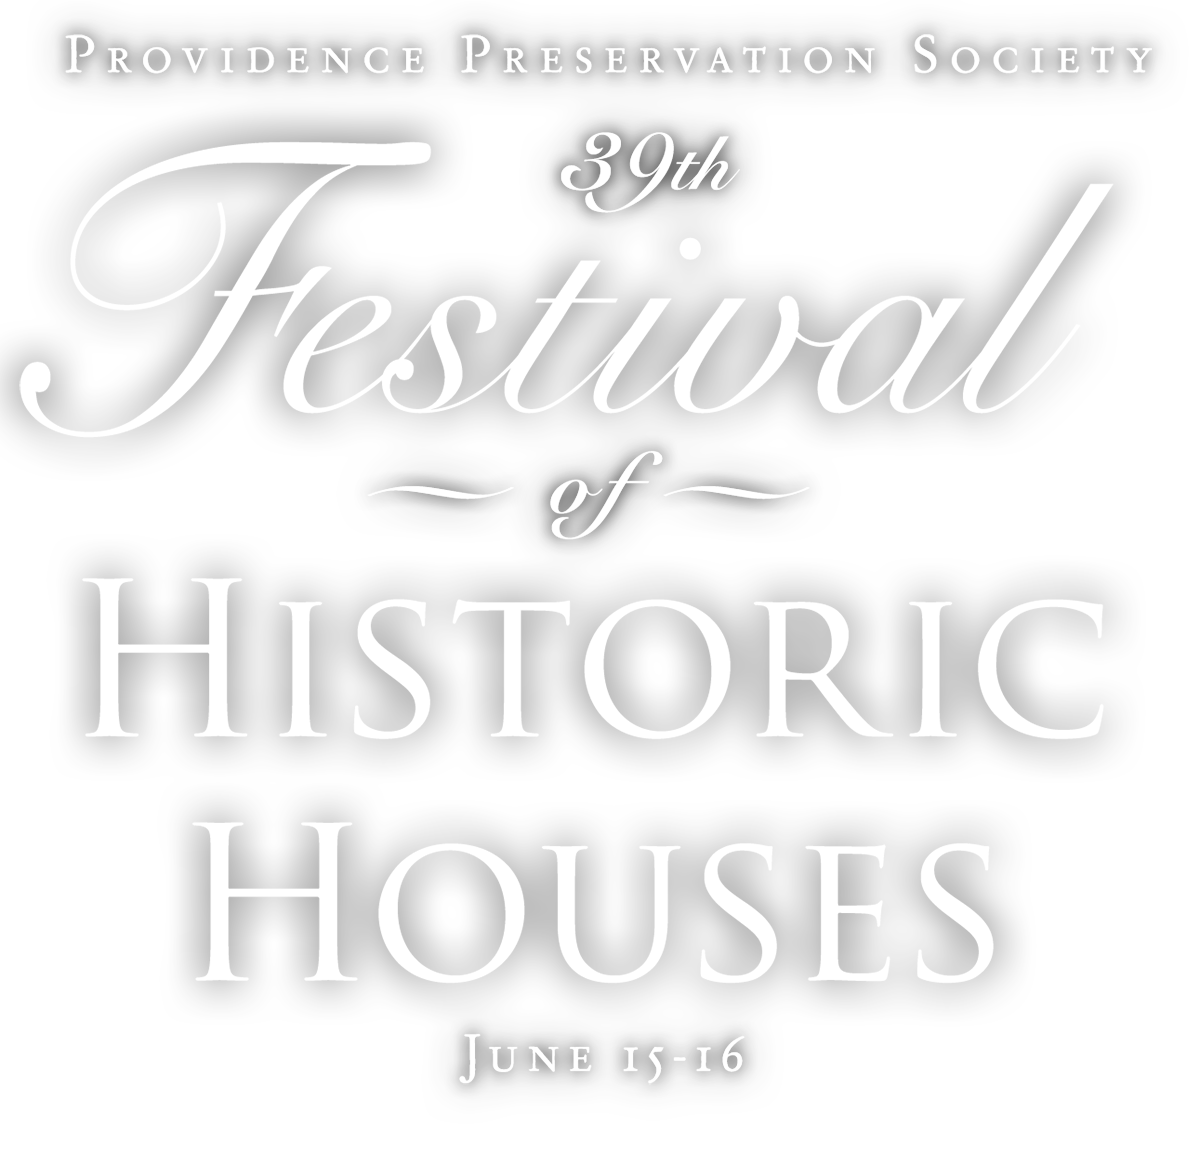
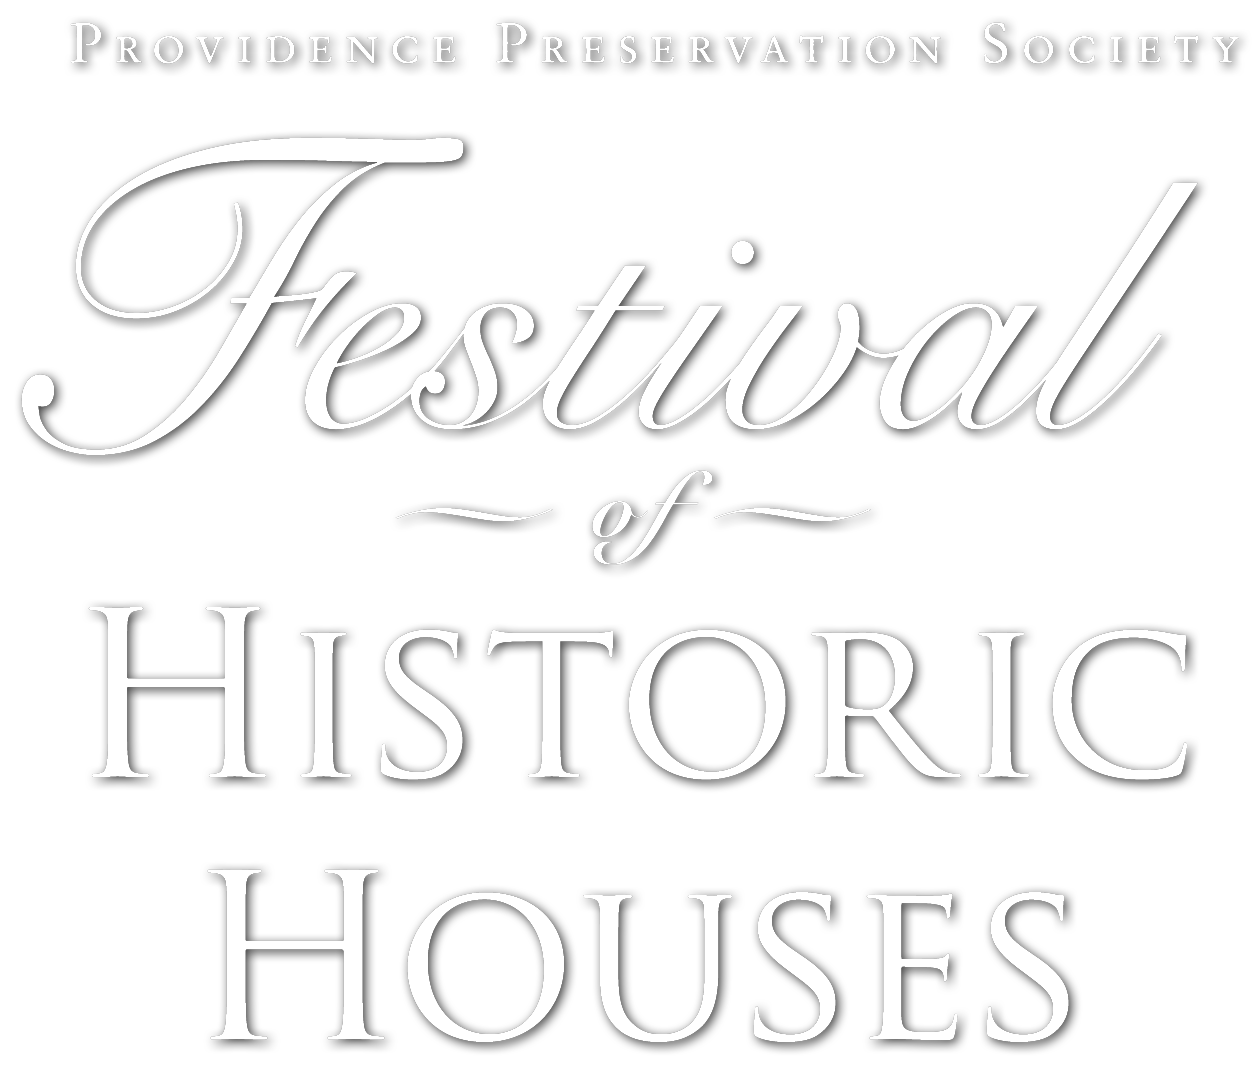
Updates for 2020 and 2021
Festival has been suspended but will return

Changed region(s): [[0.0, 0.0, 0.9867, 0.9869]]

diff --git a/about.html b/about.html
@@ -1,6 +1,6 @@
 ---
 layout: default
-title: About the 2019 Festival of Historic Houses
+title: About the 2020 Festival of Historic Houses
 permalink: /about/
 body-class: about
 body-bg-img: opener-oriole-st-pair.jpg
@@ -10,18 +10,17 @@ body-bg-img: opener-oriole-st-pair.jpg
   <section class="u__container">
     <header class="u__vspacing page__header">
       <h1 class="u__spacing text-center page__title">
-        <span class="d-lg-block">About the 2019 </span>Festival of Historic Houses
+        <span class="d-lg-block">About the 2020 </span>Festival of Historic Houses
       </h1>
     </header>
     <article class="u__vspacing bg__primary page__section">
       <div class="u__spacing u__content">
-        <p class="lead">At the turn of the 20th century the accessibility of modern utilities expanded beyond captains of industry to middle-class citizens. The Paterson Park neighborhood was one of the newly-accessible neighborhoods designed for the upwardly-mobile professional middle class. These were the homes of physicians, insurance agents, importers, chemists, lawyers, jewelers, and professors of the day, and also where the writer H.P. Lovecraft spent the early part of his life. </p>
- 
-        <p>While today we may not consider sewage lines revolutionary, at the time these homes were created they were the leading edge of infrastructure in America. The new century also spawned a nation-wide appreciation for city planning and the development of public parks and recreational facilities. Paterson Park residents could enjoy the nearby Blackstone Park as well as the Seekonk River. Having access to the only unpolluted and undeveloped water parcels in the city was a major attraction for the neighborhood. Between 1910 and 1920, several schools — including the Lincoln and Wheeler Schools — built new buildings in the area, and a dramatic expansion of streetcar and rail service helped residents reach nearby communities and Downtown. </p>
-
-        <p>This year’s festival kicks off with a preview party on the evening of Thursday, June 13, at Lincoln School’s 1870 Dwight House. Self-guided private house tours will take place Saturday, June 15, from 10 am – 4 pm, while Sunday, June 16, will feature guided walking tours of the neighborhood and its green spaces. </p>
- 
-        <p>We encourage you to join us and learn more about this tucked-away enclave on Providence’s East Side. </p>
+        <p class="lead">With twenty-five official neighborhoods and countless historic homes, cultural landscapes, and private gardens, Providence is bursting with places to explore. </p>
+        <p>Since 1980, PPS has produced the Festival of Historic Houses as a way to get to know the streets and homes that you won’t necessarily find in any guidebook. Each year, the Festival highlights the architecture and history of one of Providence’s historic neighborhoods, drawing hundreds of people from near and far.</p>
+          <p>This year, we will explore the crest of College Hill and feature homes on Keene Street and Lloyd Avenue, part of the tree-lined neighborhoods north of Brown University between Angell and Olney Streets. This area represents a period of economic growth and diversification of architectural styles in Providence’s history. The earliest houses appeared closest to Prospect Street in the 1850s, and by the 1870s, ample <a href="http://guide.ppsri.org/property/william-f-sayles- house" target="_blank" title="Open link in a new window">Second Empire</a> and <a href="http://guide.ppsri.org/property/henry-a-dike-house" target="_blank" title="Open link in a new window">Italianate</a> houses dotted the neighborhood. The building boom of the 1880s and 1890s saw a blend of <a href="http://guide.ppsri.org/property/stephen-a-cooke-house" target="_blank" title="Open link in a new window">Queen Anne</a> and <a href="http://guide.ppsri.org/property/stephen-o-metcalf-house" target="_blank" title="Open link in a new window">Colonial Revival</a> houses, all comfortable in size, rich in detail, and set back from the streets to allow for dense landscaping.</p>
+          <p>Its proximity to Brown University and Rhode Island School of Design attracted professors to this burgeoning enclave. Historically, residents of Keene Street and Lloyd Avenue were professionals — business and tradesmen who worked downtown, or in management at one of Providence’s numerous factories.</p>
+            <p>Today, the neighborhood is known for its impressive array of carefully maintained and preserved houses. Trees shade the street and the parcels are handsomely landscaped, creating an oasis within the urban fabric. In planning this year’s Festival, we’ve heard more than one confession that this area is a Providence favorite, and we’re excited to invite you in to the homes that lend this historic district its magic.</p>
+            <p>For a taste of the Festival, check out past house tours on our Guide to Providence Architecture: Our <a href="http://guide.ppsri.org/tour/2019-festival-of-historic-houses-paterson-park" target="_blank" title="Open link in a new window">2019 Festival</a> and our <a href="http://guide.ppsri.org/tour/2017-festival-of-historic-houses-upper-elmwood" target="_blank" title="Open link in a new window">2017 Festival</a></p>
         
         <p class="text-center">Next: <a href="{{ site.baseurl }}tour" class="btn btn-secondary">Festival Tour &amp; Ticket Information</a></p>
       </div>

diff --git a/related.html b/related.html
@@ -1,6 +1,6 @@
 ---
 layout: default
-title: Festival Preview Lecture
+title: Related Programs
 permalink: /related/
 body-class: related
 body-bg-img: opener-oriole-st-pair.jpg
@@ -15,18 +15,40 @@ body-bg-img: opener-oriole-st-pair.jpg
     </header>
     <article class="u__vspacing bg__denim page__section">
       <div class="u__spacing u__content">
-        <p class="lead">James Barnes is a Professor of Architecture at RISD and a registered architect certified by NCARB with an active practice in the southern New England region. His professional work has been by recognized by the RI Chapter AIA, the Providence Preservation Society and RI Monthly magazine. He is also a recipient of RISD’s John Frazier Award for Excellence in Teaching and of a RISD Alumni Faculty Award. He lives with his wife Victoria in Providence’s Elmwood Historic District. </p>
-        <h2 class="h4">Festival Preview Lecture</h2>
-        <dl>
-          <dt><em>From Central Bridge to Paterson Park: The Evolution of a Neighborhood Through Maps, Streets and Houses</em>.</dt>
-          <dd>
-            Monday, June 3 at 5:30 pm<br>
-            <a href="https://www.google.com/maps/place/St.+Martin’s+Episcopal+Church/@41.832097,-71.3879823,17z/data=!3m1!4b1!4m5!3m4!1s0x89e4452bab75d1db:0x2175ed7c4f57f1af!8m2!3d41.832093!4d-71.3857936" target="_blank">Saint Martin’s Episcopal Church, 50 Orchard Avenue</a>
-          </dd>
-        </dl>
-        <p><b>FREE</b> and open to the public. </p>
-
-        <p class="text-center"><a href="https://www.eventbrite.com/e/2019-festival-of-historic-houses-festival-preview-lecture-tickets-60767162218" class="btn btn-secondary">RSVP on Event Brite</a></p>
+        
+        <h2><a href="http://www.doorsopenri.org/janeswalk" target="_blank" title="Open link in new window">Jane’s Walk Weekend</a></h2>
+        <p><b>May 1–3, FREE</b></p>
+        <p>Kick off National Preservation Month by getting to know some of Providence’s hidden treasures. This global festival is inspired by urban activist Jane Jacobs and takes place in over 200 cities during the first weekend in May. Unlike most guided tours, these free walking conversations are led by volunteer citizen guides who share knowledge of their own communities while inspiring participants to think, talk, and connect.</p>
+        
+        <h2>Marker Meet-up</h2>
+        <p><b>May 14, 5:30 pm, FREE</b></p>
+        <p>PPS has publicly recognized over 1,500 buildings and property owners through its Historic Marker Program, and if we’ve learned anything, it’s that Providence’s historic buildings and the people who love them are endlessly interesting. Have a maker on your house already? Come mix and mingle and share the remarkable history of your home.</p>
+        <p>Want to know more about this longstanding program? We’ll be available to answer your questions and share information about the city’s awesome architecture.</p>
+        
+        <h2>Bite-Sized Preservation</h2>
+        <p><b>May 21, 12:00 pm, FREE</b><br>
+          24 Meeting Street (PPS Offices)
+        </p>
+        <p>Join us for our Bite-Sized Preservation discussion series. Pack a lunchpail and stop by the Old Brick School House for just as much preservation as fits in a lunch hour. Each month will bring a new topic and slate of advocacy updates.</p>
+        
+        <h2>Neighborhood History Lecture</h2>
+        <p><b>May 26, 5:30 pm, FREE (registration required)</b><br>
+          20 Washington Place (RISD Administration Offices)
+        </p>
+        <p>James Barnes, AIA, will whet our appetites for the history and architecture of Keene Street and Lloyd Avenue.</p>
+        
+        <h2>Music in the Garden</h2>
+        <p><b>May 27, 6:00 pm</b><br>
+          <b>$20 general, $15 PPS members, $10 Mile of History Association members</b><br>
+          21 Meeting Street
+        </p>
+        <p>Come enjoy the first of our summer garden concerts, which launches in conjunction with the Festival. This series takes place on the last Wednesday of the month from May through September and will feature an eclectic range of performers from classical to contemporary. First up is Cowboy and Lady, a country-blues-inspired duo.</p>
+        
+        <h2>About PPS</h2>
+        <p>The Providence Preservation Society is a non-profit organization based in Providence, Rhode Island whose mission is to improve Providence by advocating for historic preservation and the enhancement of the city’s unique character through thoughtful planning and design.</p>
+        
+        
+        <!--<p class="text-center"><a href="https://www.eventbrite.com/e/2019-festival-of-historic-houses-festival-preview-lecture-tickets-60767162218" class="btn btn-secondary">RSVP on Event Brite</a></p>-->
       </div>
     </article>
   </section>

diff --git a/tour.html b/tour.html
@@ -15,33 +15,26 @@ body-bg-img: oriole-interior.jpg
     </header>
     <article class="u__vspacing bg__green page__section">
       <div class="u__spacing u__content">
-        <p class="lead">On Saturday, June 15, guests will enjoy self-guided access to lovingly-cared-for private homes, buildings and green spaces throughout the Paterson Park Neighborhood. </p>
-        <p>Paterson Park boasts homes from the turn of the 20th century, reflecting the era’s newfound appreciation for city planning and the development of public parks and recreational facilities. The neighborhood was also where the writer H.P. Lovecraft spent the early years of his life.</p>
-        <ul>
-          <li><strong>9:45 am – 2 pm:</strong> Required guest check-in at the Registration Center: Lincoln School, 301 Butler Avenue. Participants will receive a Guide Map for admission to each house</li>
-          <li><strong>10 am - 4 pm:</strong> Self-guided tours of historic houses</li>
-        </ul>
-        <p>Rain or shine. No indoor photography or videography. Children 10 and over.</p>
+        <h2>Saturday Tour</h2>
+        <p class="lead">The Festival’s self-guided tours of private homes on Keene Street and Lloyd Avenue will take place from 10:00 am – 4:00 pm on Saturday, June 6.</p>
+        <p>Tickets are $45 in advance, with a $10 discount for <a href="http://ppsri.org/support/membership/" target="_blank" title="Open link in a new window">Providence Preservation Society members</a>. Tickets will be available on the day of the tour for $60 ($50 for PPS members).</p>
         
-        <p class="text-center"><a href="https://www.eventbrite.com/e/2019-festival-of-historic-houses-saturday-house-tours-tickets-60683396673
-" class="btn btn-secondary" target="_blank">Register on EventBrite</a></p>
+        <p class="text-center"><a href="{{ eventbrite }}" class="btn btn-secondary" target="_blank">Tickets go on sale on April 10</a></p>
         
-        <hr>
-        
-        <p class="lead">Sunday, June 16, will feature guided walking tours of the Paterson Park neighborhood and its green spaces from 1 pm - 5 pm:</p>
-        <ul>
-          <li><em>“H.P. Lovecraft: A Youth in Wayland Square”</em> — Come walk in the Wayland Square that H.P. Lovecraft knew. See where he lived and played, and visit the sites that inspired his youthful writing. </li>
-          <li><em>“A Place of Beauty and Satisfaction,”</em> a tour of Gladys Potter Park</li>
-        </ul>
-        
-        <p class="text-center"><a href="https://www.eventbrite.com/e/2019-festival-of-historic-houses-sunday-walking-tours-tickets-60763522331" class="btn btn-secondary" target="_blank">Register on Event Brite</a></p>
+        <p>All Festival attendees must check in at the Registration Center on the day of the tour, located at the First Church of Christ, Scientist (71 Prospect Street). Registration opens at 9:45 am and homes open at 10:00 am.</p>
+        <p>Each guest will receive a Festival map, which will serve as the admission to homes on the tour. Information on the homes will be posted outside each tour stop, and will also be available on the mobile-friendly Festival website.</p>
+        <p><em>* Please note that as the COVID-19 situation develops, this event may be postponed until later in 2020. We will update all attendees as information becomes available</em></p>
         
         <hr>
         
+        <h2>Preview Party</h2>
         
-        <h2 class="h4 text-center pt-4">Special Offer from Hotel Providence</h2>
-        <p>Book your weekend stay (June 14-16) at the Hotel Providence and receive <strong>two complimentary tickets</strong> to our Saturday and Sunday tours! Visit <a href="http://hotelprovidence.com">HotelProvidence.com</a> and use the code <samp>PPSFHH</samp> when registering.</p>
-        <p class="text-center"><a href="http://hotelprovidence.com" class="btn btn-secondary" target="_blank">Book Now with code PPSFH</a></p>
+        <p class="lead">A special Festival fundraiser will take place on Thursday, June 4 at the historic 1852 Edwin Halsey Reynolds House. Tickets are available for $125, and include a complimentary ticket to Saturday’s house tours.</p>
+        
+        <p>House write up coming</p>
+        
+        <p class="text-center"><a href="https://www.eventbrite.com/e/2019-festival-of-historic-houses-sunday-walking-tours-tickets-60763522331" class="btn btn-secondary" target="_blank">Tickets go on sale on April 10</a></p>
+        
       </div>
     </article>
   </section>

diff --git a/index.html b/index.html
@@ -4,26 +4,35 @@ title: Welcome to PPS‘s Festival of Historic Houses
 nav-title: Home
 permalink: /
 body-class: home
-body-bg-img: opener-oriole-st-pair.jpg
+body-bg-img: 2020-opener-keene-st.jpg
 ---
 
     <section class="u__vspacing opener">
       <article class="u__container">
         <h1>
-          <img class="img--rwd opener__img" src="{{ site.baseurl }}assets/img/FHH-text-opener.png" alt="Providence Preservation Society’s Festival of Historic Houses" />
+          <img class="img--rwd opener__img" src="{{ site.baseurl }}assets/img/FHH-text-opener-darker.png" alt="Providence Preservation Society’s 40th Festival of Historic Houses" />
         </h1>
         <div class="u__spacing u__content bg__white">
-          <p class="lead">Join us for the 39th Festival of Historic Houses! The 2019 House Tour will take place on Saturday and Sunday, June 15–16, in the Paterson Park Neighborhood. Don’t miss your chance to explore the late 19th and early 20th century homes of this tucked-away enclave on Providence’s East Side. </p>
+          <p class="lead">The 40th Festival of Historic Houses</p>
+          <p>While we were excited to celebrate the 40th Festival of Historic Houses tour in 2020, unfortunately the COVID-19 pandemic has suspended all group activities.</p>
+          <p>Therefore, <b>we will celebrate the 40th Festival on Saturday June 12 and Sunday, June 13, 2021</b> More information will be available soon!</p>
+          <p>To receive updates on the Festival, <a href="//docs.google.com/forms/d/e/1FAIpQLSdme1DU6wGByJ2QBEAhHzmnUS8EshvFg7DL8vHcx3puyZQX0g/viewform?gxids=7628">please complete our online form</a> and we will send out more details as they become available.</p>
         </div>
       </article>
     </section>
     
-    <section class="u__vspacing u__m-spacing bg__primary opener__section">
+    
+    {% comment %}
+    <section class="u__vspacing u__m-spacing opener__section">
       <article class="u__container">
-        <div class="u__spacing u__content">
+        <div class="u__spacing u__content bg__primary">
           <h2 class="h3">About the Festival</h2>
-          <p class="lead">The 39th Festival of Historic Houses will offer tour-goers the chance to explore the late 19th and early 20th century homes of Providence’s Paterson Park Neighborhood, located in the Blackstone Park Historic District. </p>
-          <p><a href="{{ site.baseurl }}about/" class="btn btn-secondary">More About the Festival</a></p>
+          <p>Explore homes on Keene Street and Lloyd Avenue, part of the tree-lined neighborhoods north of Brown University between Angell and Olney Streets. This area represents a period of economic growth and diversification of architectural styles in Providence’s history. The earliest houses appeared closest to Prospect in the 1850s, and by the 1870s, ample Second Empire and Italianate houses dotted the neighborhood. The building boom of the 1880s and 1890s saw a blend of Queen Anne and Colonial Revival houses, all comfortable in size, rich in detail, and set back from the streets to allow for a dense landscape of flora. The residents were professionals; business and tradesmen who worked downtown, or perhaps in management at one of Providence’s numerous factories. The proximity to Brown University and Rhode Island School of Design also attracted professors to this burgeoning enclave. </p>
+          <p>Today, the neighborhood is known for its impressive array of carefully maintained and preserved houses. The streets are tree-lined and the parcels are handsomely landscaped, creating an oasis within the urban fabric. Residents who live in this historic district take pride in their neighborhood and have made their homes functional for the 21st century. </p>
+          
+          <p><a href="https://forms.gle/AiA3vbLKNQJtPnteA" class="btn btn-secondary" target="_blank" title="Opens in a new window">Be Notified When Tickets Are On Sale</a></p>
+          
+          {% comment %}<p><a href="{{ site.baseurl }}about/" class="btn btn-secondary">More About the Festival</a></p>{% endcomment %}
         </div>
       </article>
     </section>
@@ -67,4 +76,5 @@ body-bg-img: opener-oriole-st-pair.jpg
         </div>
       </article>
     </section>
+    {% endcomment %}
 

diff --git a/_includes/navigation.html b/_includes/navigation.html
@@ -6,6 +6,7 @@
           {% endcomment %}
           <div class="nav__container fixed-top ">
             <nav id="main-nav" class="main__nav navbar navbar-expand-md nav u__container--large">
+              {% comment %}
               <button class="navbar-toggler nav__button" type="button" data-toggle="collapse" data-target="#navbarContent" aria-controls="navbarContent" aria-expanded="false" aria-label="Toggle navigation">
                 <span class="nav__button__icon">&equiv;</span>
                 <span class="nav__button__text"><span class="sr-only">Open the </span>Menu</span>
@@ -30,5 +31,6 @@
                   </li>
                 </ul>
               </div>
+              {% endcomment %}
             </nav>
           </div>

diff --git a/assets/js/project.js b/assets/js/project.js
@@ -62,10 +62,10 @@ document.addEventListener( 'DOMContentLoaded', function () {
   
   var root = document.body.style;
   //console.log(root);
-  var sponsor_height = $("#sponsors").outerHeight(true);
+  //var sponsor_height = $("#sponsors").outerHeight(true);
   var footer_height = $("#mainfoot").outerHeight(true);
   var viewport_height = window.innerHeight;
-  var scroll_height = viewport_height + footer_height + sponsor_height;
+  var scroll_height = viewport_height + footer_height;
   //console.log("footer_height = " + footer_height);
   //console.log("viewport_height = " + viewport_height);
   //console.log("scroll_height = " + scroll_height);

diff --git a/_sass/pages/_page.scss b/_sass/pages/_page.scss
@@ -1,4 +1,5 @@
 .page {
+  
   &__cover,
   &__cover img {
     width: 100vw;
@@ -9,11 +10,11 @@
     animation: fade-out 1s linear;
     position: fixed;
     top: 0;
-    opacity: 1;
+    opacity: 0.9;
     overflow: hidden;
     transform: translateY(0);
     z-index: -1;
-
+  
     img {
       position: absolute;
       top: 0;
@@ -39,7 +40,7 @@
 
 @keyframes fade-out {
   to {
-    opacity: 0;
+    opacity: 0.25;
     transform: translateY(-10vh);
   }
 }

diff --git a/_layouts/default.html b/_layouts/default.html
@@ -14,7 +14,9 @@
 
     {{ content }}
 
+    {% comment %}
     {% include sponsors.html %}
+    {% endcomment %}
     {% include footer.html %}
     {% include scripts.html %}
   </body>

diff --git a/_sass/components/_opener.scss b/_sass/components/_opener.scss
@@ -13,5 +13,10 @@
       max-height: 70vh;
       max-width: 70vw;
     }
+    
+    @include media-breakpoint-up(lg) {
+      max-height: 60vh;
+      max-width: 60vw;
+    }
   }
 }

diff --git a/README.md b/README.md
@@ -4,7 +4,7 @@ PPS House Tour Marketing Site
 Stand-alone marketing website for the annual Festival of Historic Houses. 
 
 
-# Built on Grey Matter from Oomph
+## Built on Grey Matter from Oomph
 
 [Grey Matter](https://github.com/oomphinc/oomph-grey-matter) is a boilerplate for 
 stand-alone Jekyll projects. Inspired by [Distillery](https://github.com/thinkshout/distillery/tree/master/)
@@ -12,11 +12,11 @@ stand-alone Jekyll projects. Inspired by [Distillery](https://github.com/thinksh
 Oomph Scaffold custom code and *Bootstrap 4*.
 
 
-# Getting started
+## Getting started
 To get up and running:
 
 
-## Install dependencies
+### Install dependencies
 Navigate to the project folder in your Terminal, then install Bundler if you do
 not already have it installed:
 
@@ -37,7 +37,7 @@ The project dependencies should now be installed.
 the permissions of your computer.
 
 
-## Run the Local server and SASS compiler
+### Run the Local server and SASS compiler
 From the project root, run: 
 
 ```sh
@@ -51,7 +51,7 @@ value in  `_config` and restart the server. The web url will change as well,
 i.e. `http://localhost:4090/[path]`. When you upload the sites content to a server,
 all URLs will be prefixed with `/[path]`.
 
-## Project Structure
+### Project Structure
 
 ```sh
 config.yml          // project set up and variables for base URL path
@@ -78,7 +78,7 @@ index.html          // Site content front page
 etc...
 ```
 
-## Jekyll Standard Usage
+### Jekyll Standard Usage
 Any folder prefixed with an underscore is used as a build folder only, it is not
 compiled and rendered. An `assets` folder (unprefixed) will be included in the
 site build. Additional files that should be excluded from the build should be
@@ -100,13 +100,13 @@ structure.
 
 More in depth Jekyll instructions here from [JekyllRB](https://jekyllrb.com/).
 
-## Markdown
+### Markdown
 Markdown is supported and may be used inside files with a `.md` extension. 
 [A markdown syntax usage guide](https://github.com/fletcher/MultiMarkdown/blob/master/Documentation/Markdown%20Syntax.md).
 Daring Fireball has a really great [online converter](http://daringfireball.net/projects/markdown/dingus)
 if you need troubleshooting help.
 
-# Updates
+## Updates
 Keep Ruby Gems and the Gemfile up to date. 
 
 ```sh
